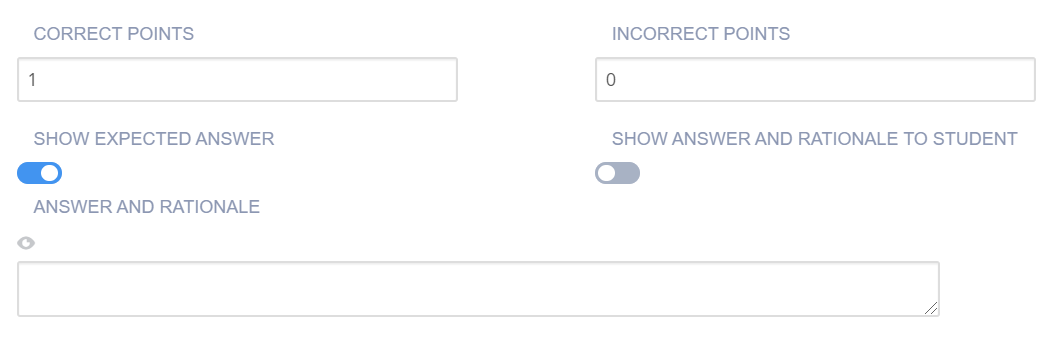
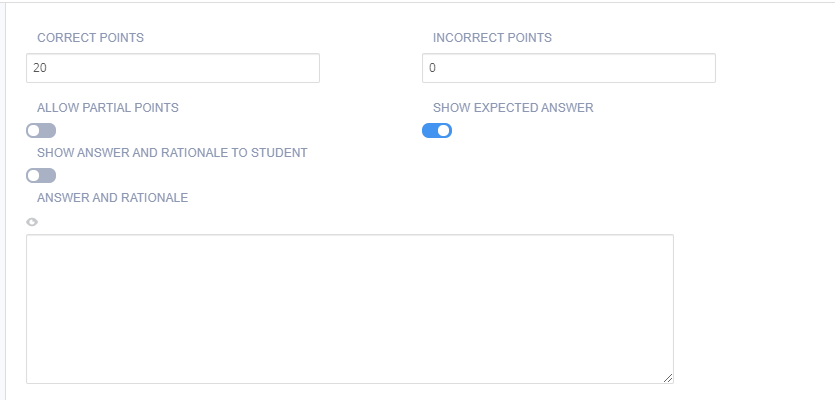
23decupdate (#71)
* changelog #12050

* changelog #12050

* update

diff --git a/docs/courses/assessments.md b/docs/courses/assessments.md
@@ -1,7 +1,5 @@
 ---
 title: Codio Assessments
-
-
 ---
 
 ## Assessments
@@ -446,8 +444,9 @@ The configuration fields for an assessment are split into five sections: General
 ![](/img/guides/assessment_mc_grading.png)
 
 - **Show Expected Answer** will show the students the correct answer when they have submitted an answer for this question. To suppress this, flip the switch.
-- **Correct Points** is the score given to the student if the student makes the correct selection. You can choose any positive numeric value.
+- **Correct Points** is the score given to the student if the student makes the correct selection. You can choose any positive numeric value. Enabling the **Allow Partial Points** switch will allow the student to get % of total points based on % of answers they get correct where **Multiple Response** is enabled.
 - **Incorrect Points** is the score to be deducted if the student makes an incorrect selection. Typically, this value will be 0 but you can assign any positive numeric value if you wish to penalize guessing.
+
 - **Answer and rationale** is where guidance for the assessment can be entered. This will be visible to the teacher when the project is opened in the course or when opening the students project. This guidance information can also be shown to students after they have submitted their answer and also if they reload the assignment after marking it as completed. To enable this, flip the **Show Answer and Rationale to Student** switch below the guidance field.
 
 #### Metadata

diff --git a/docs/resources/changelog.md b/docs/resources/changelog.md
@@ -13,6 +13,7 @@ We do not report small bug fixes or issues that affect individual users, who we 
 
 **December 2020**
 
+- `[I] [23rd]`: Add support for partial points in [Multiple Choice](/courses/assessments/#grading_2) assessment
 - `[I] [22nd]`: Update course creation changing to show button consistent with creating new projects/stacks/packs
 - `[I] [18th]`: Improve handling of adding new teachers to organisation and/or course as **Read-Only** teachers
 - `[I] [18th]`: Fix problem with UnitTestGrader type of Parsons Puzzle assessment not showing correctly in student's assignment
